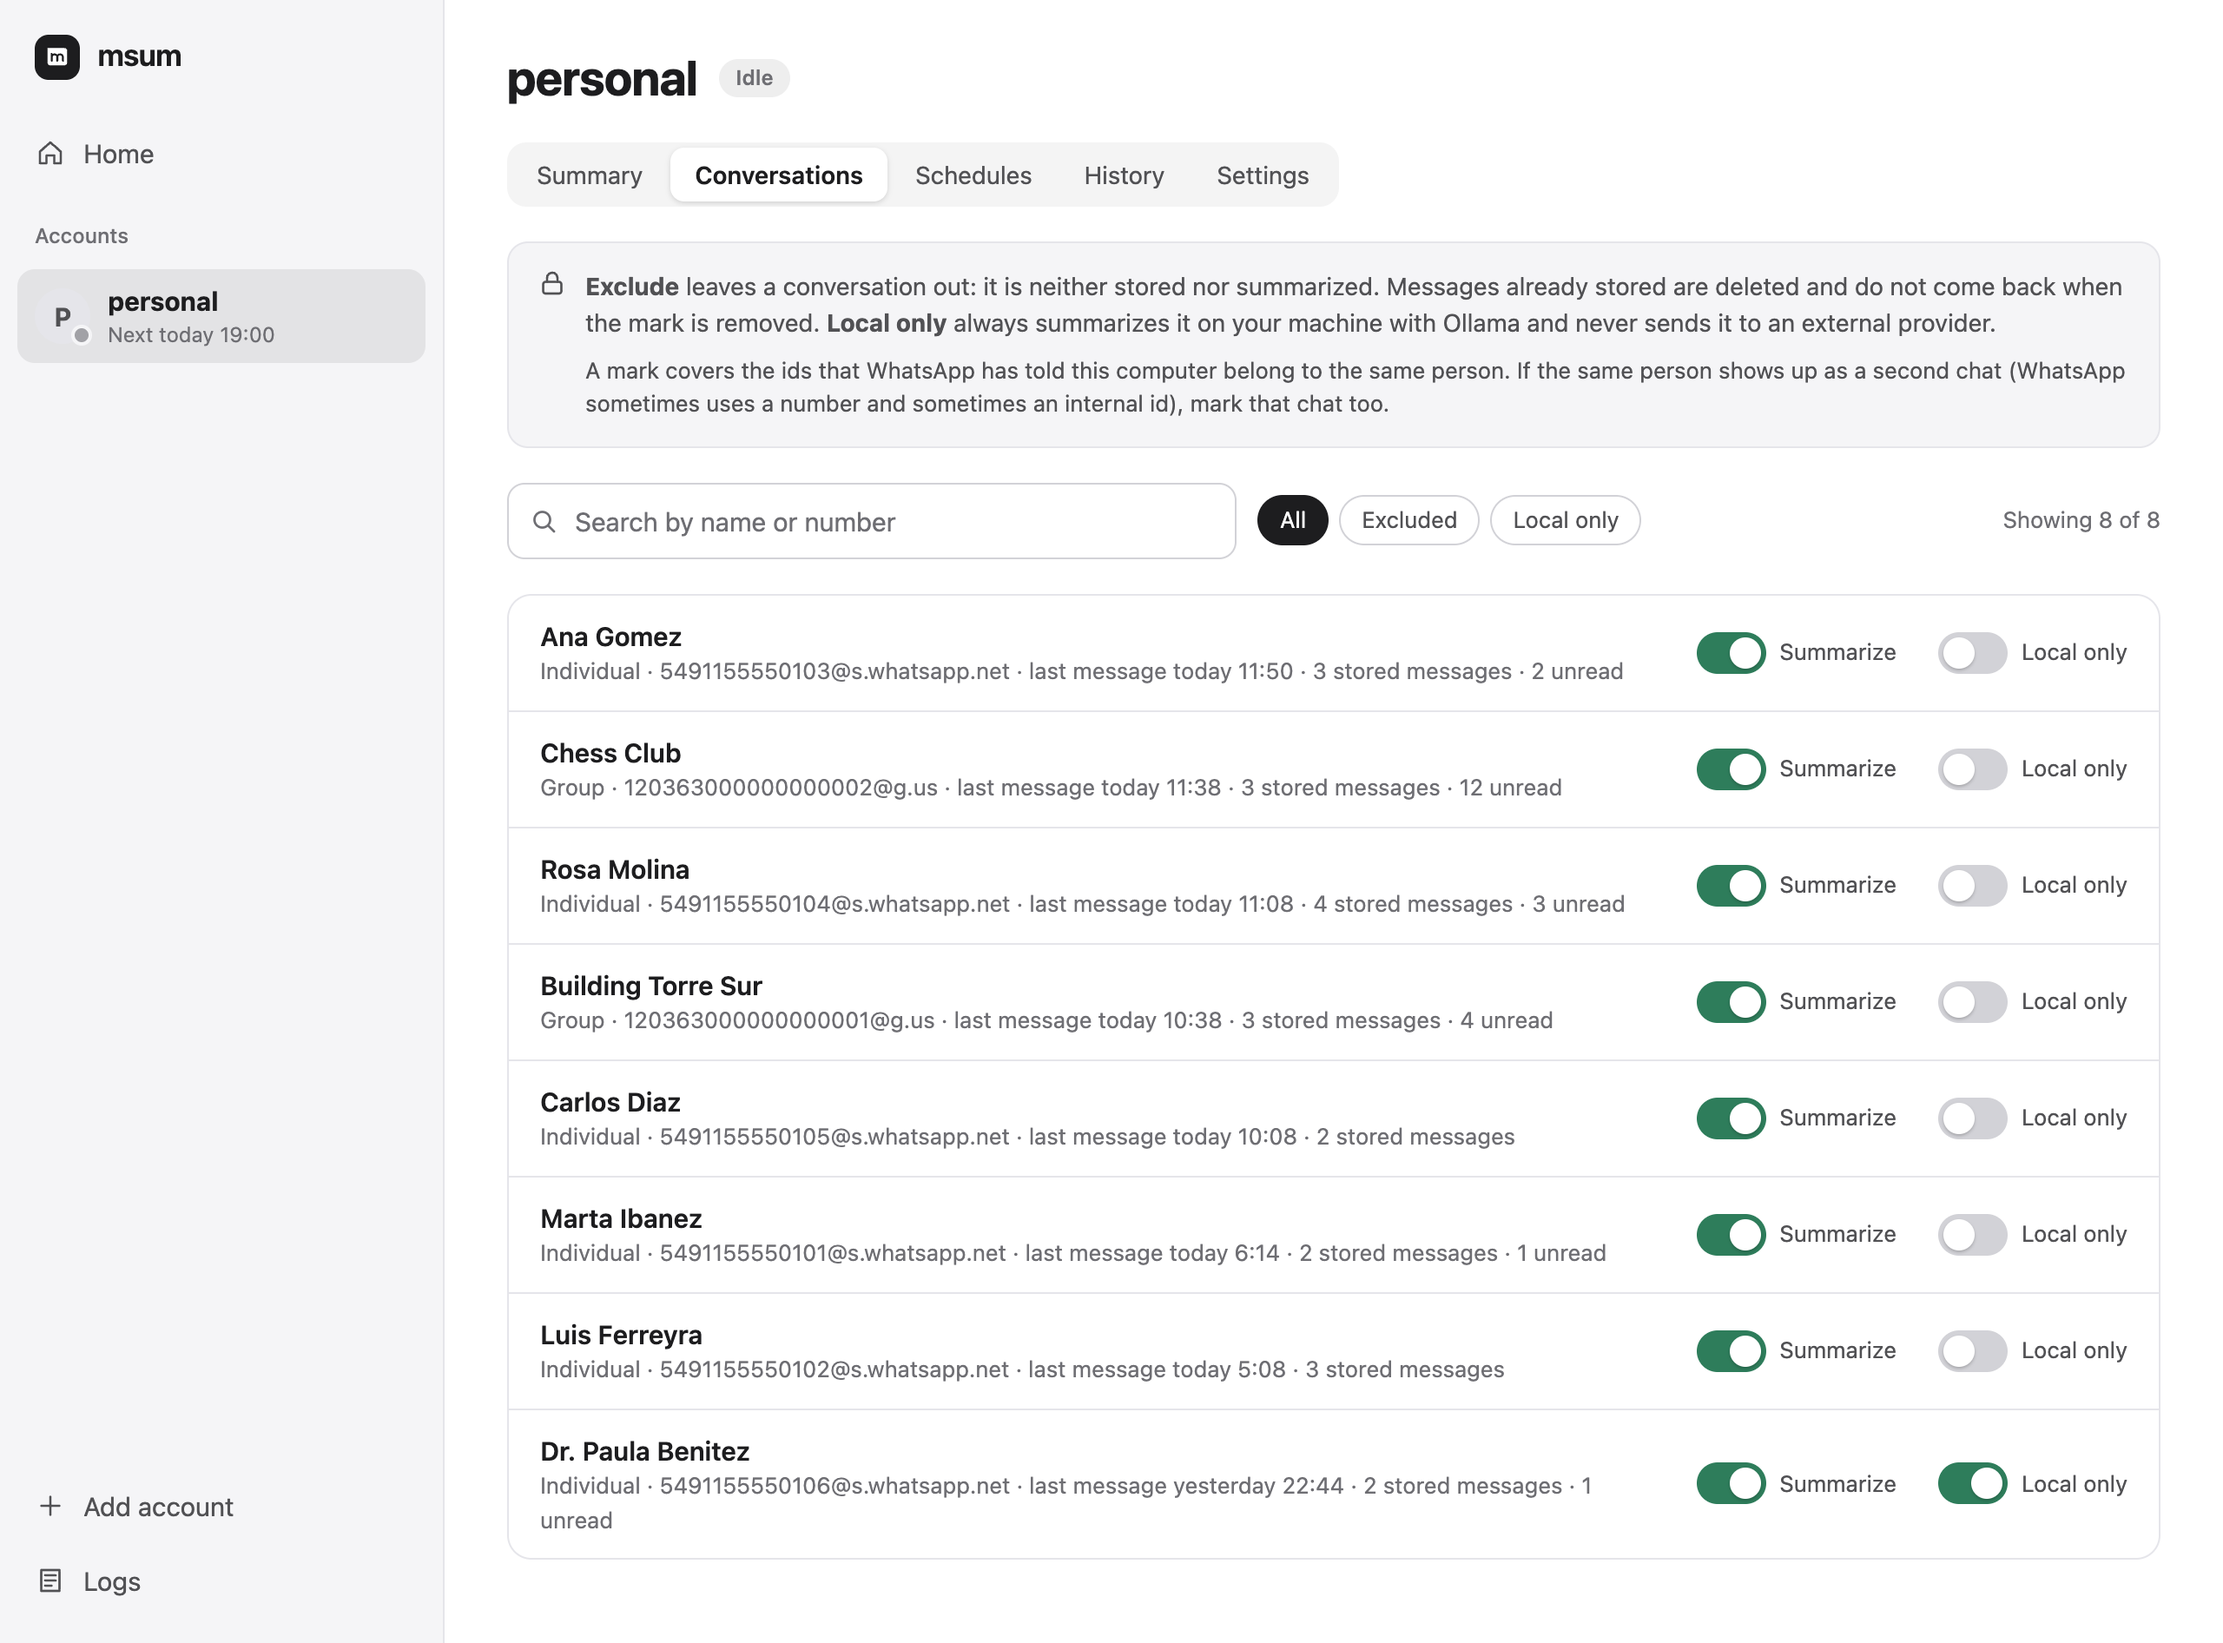
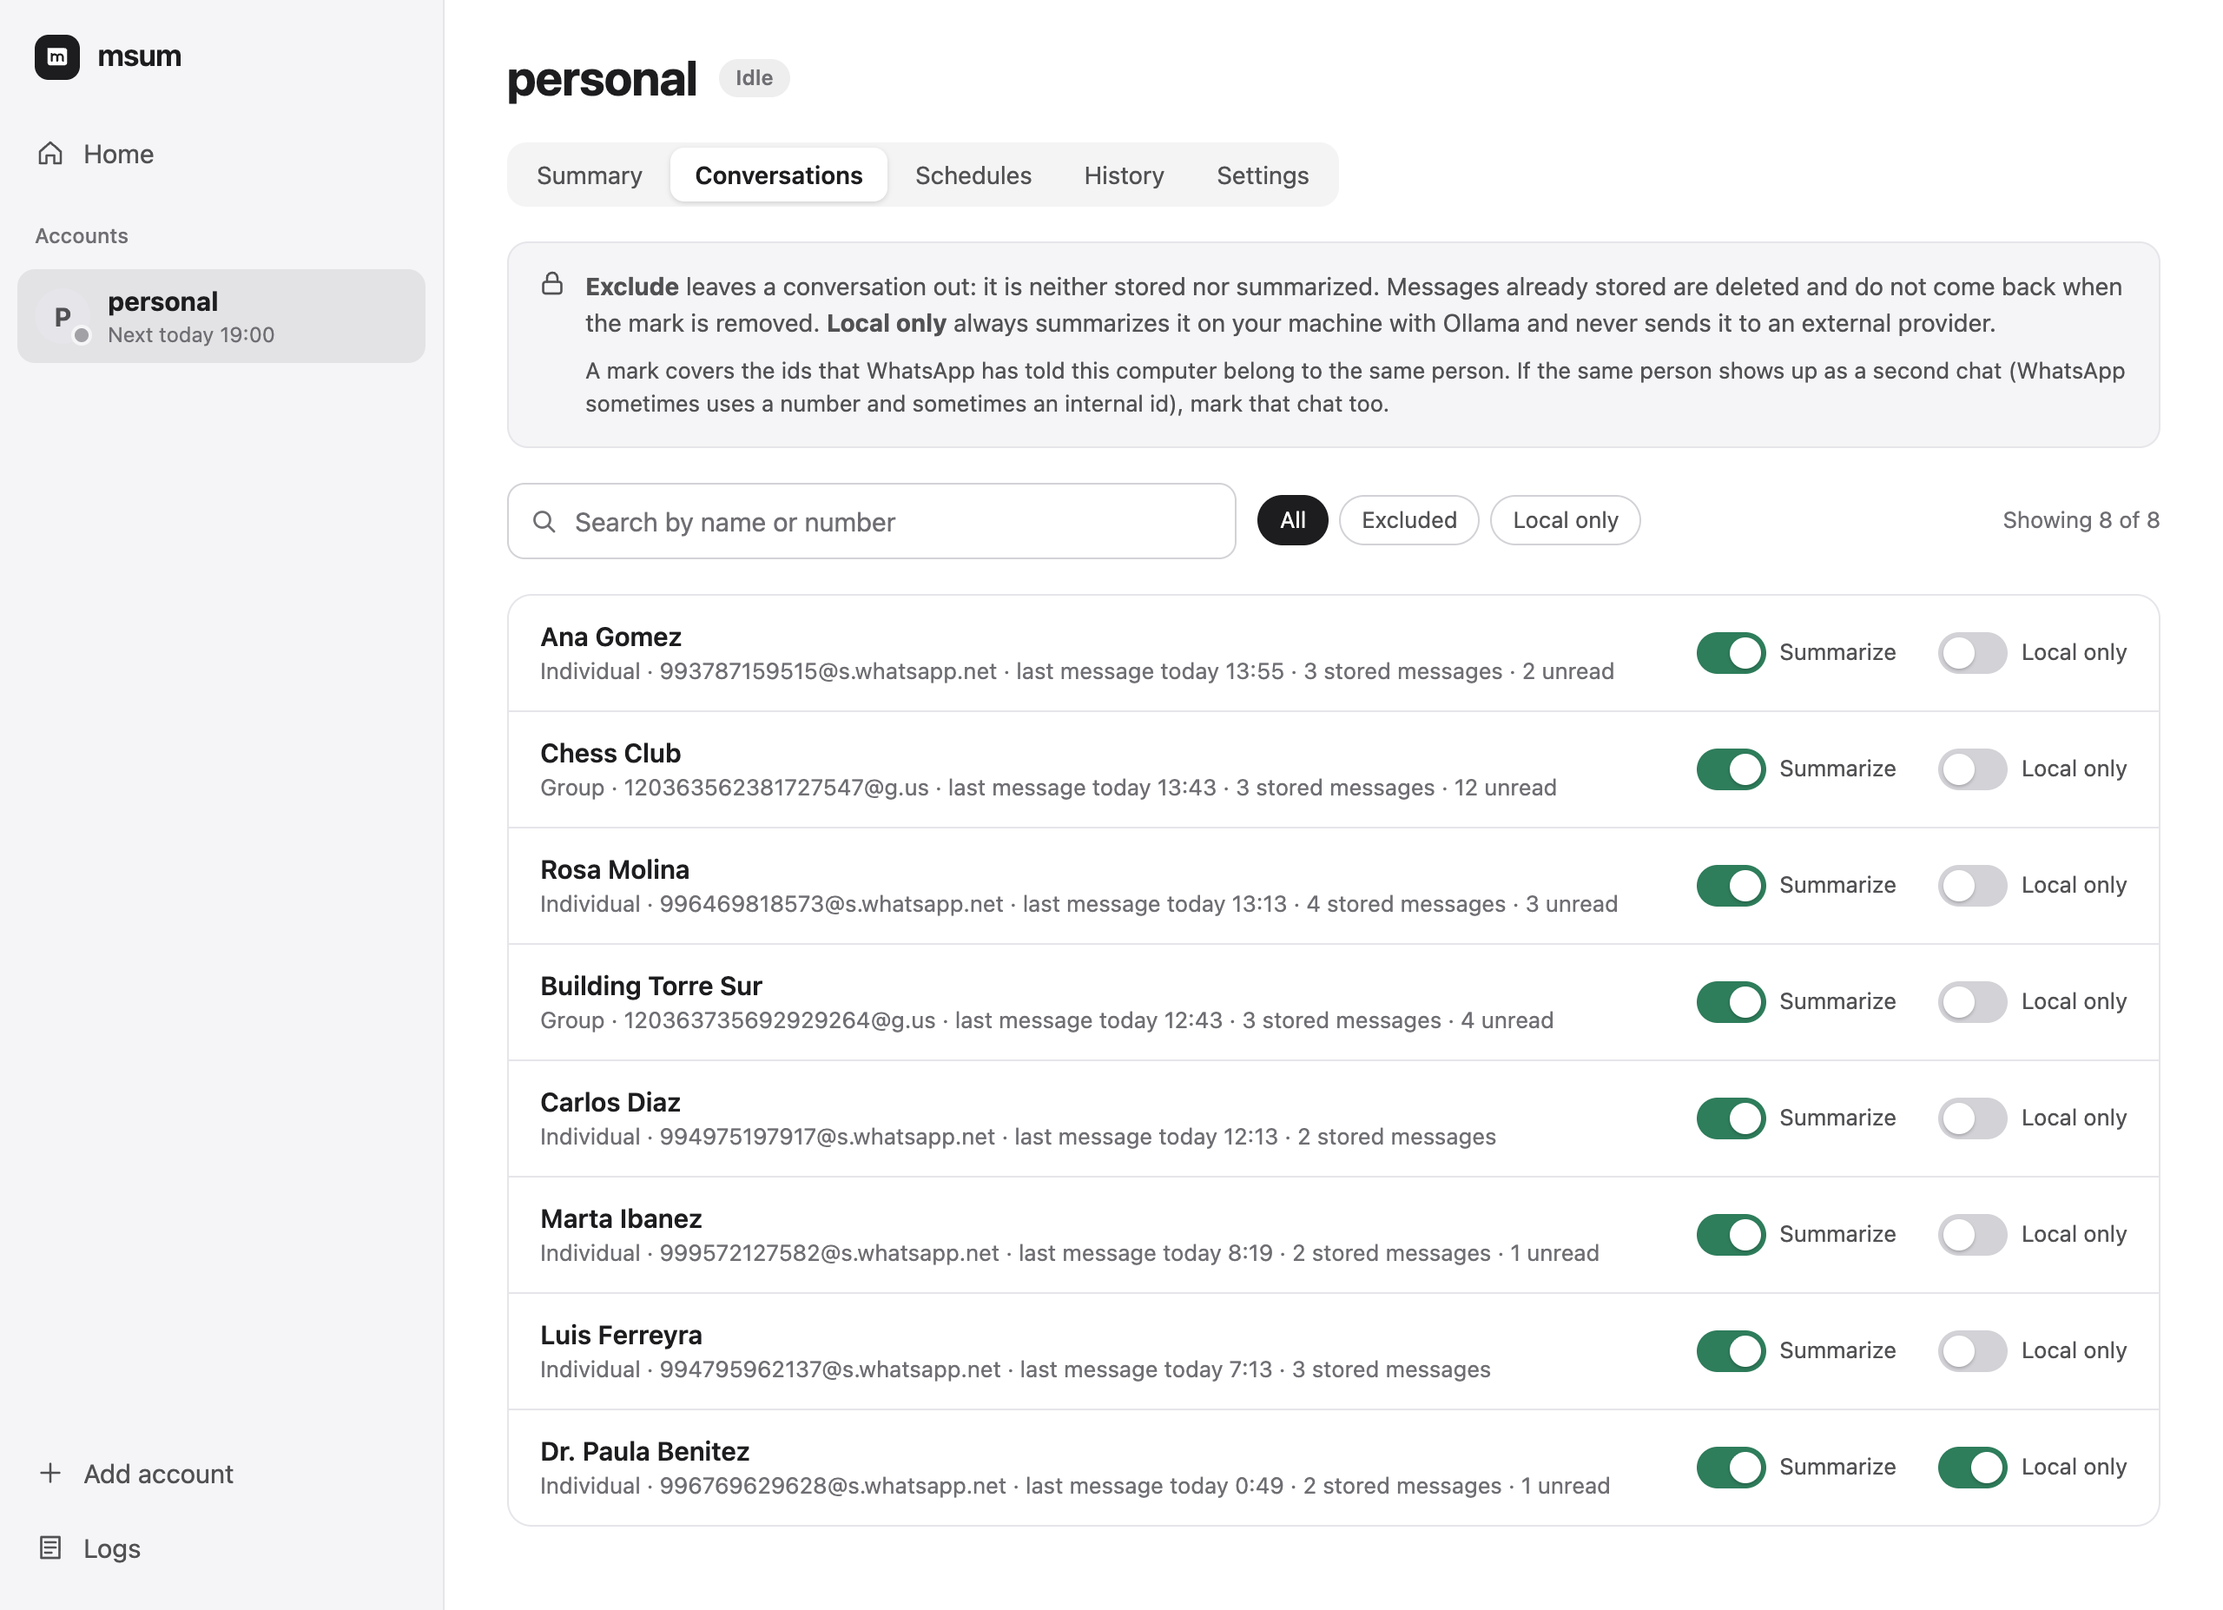
Retake the conversations screenshot with random ids that cannot be real numbers
The ids were sequential and used a real Buenos Aires mobile prefix. Phone ids are now 99 (a country code that does not exist) plus ten random digits, and group ids are 120363 plus twelve random digits.

diff --git a/docs/images/README.md b/docs/images/README.md
@@ -3,7 +3,8 @@
 - `diagrams/`: `overview`, `privacy` and `architecture`, each as an editable `.excalidraw` source (open it at
   excalidraw.com or in the Excalidraw extension) and a rendered `.svg` (exported by Excalidraw itself).
 - `screenshots/`: the web page as the README shows it, 1280 px wide, device scale 2, light theme. Every name, chat and
-  number on them is made up (the number is +54 11 5555-0100).
+  id on them is made up. Phone ids are `99` (a country code that does not exist) followed by ten random digits, and
+  group ids are `120363` followed by twelve random digits, so none can be a real number.
 
 ## Regenerate the diagrams
 
